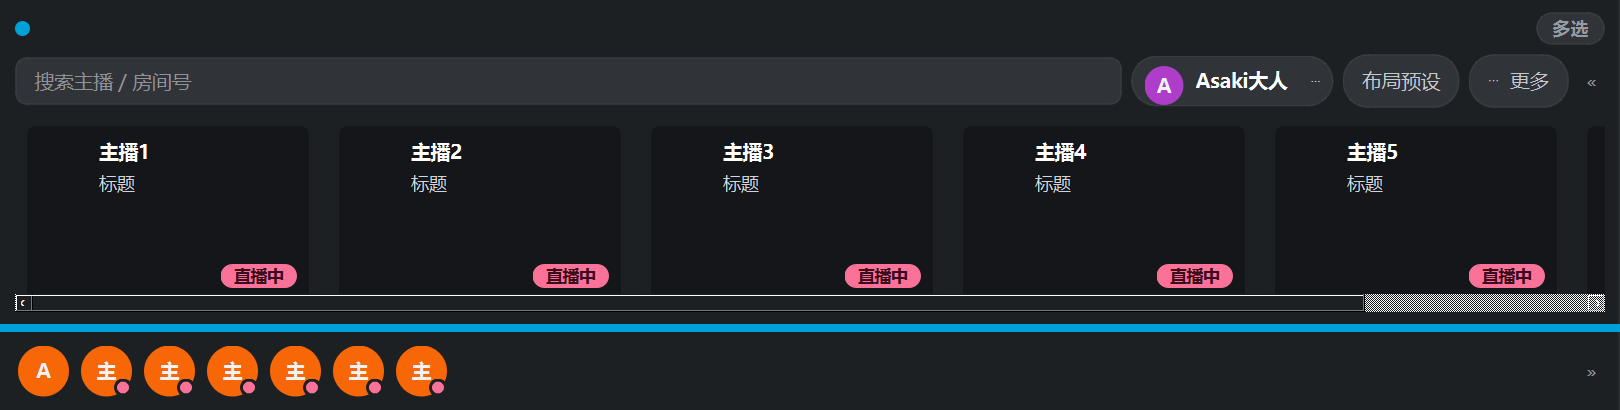
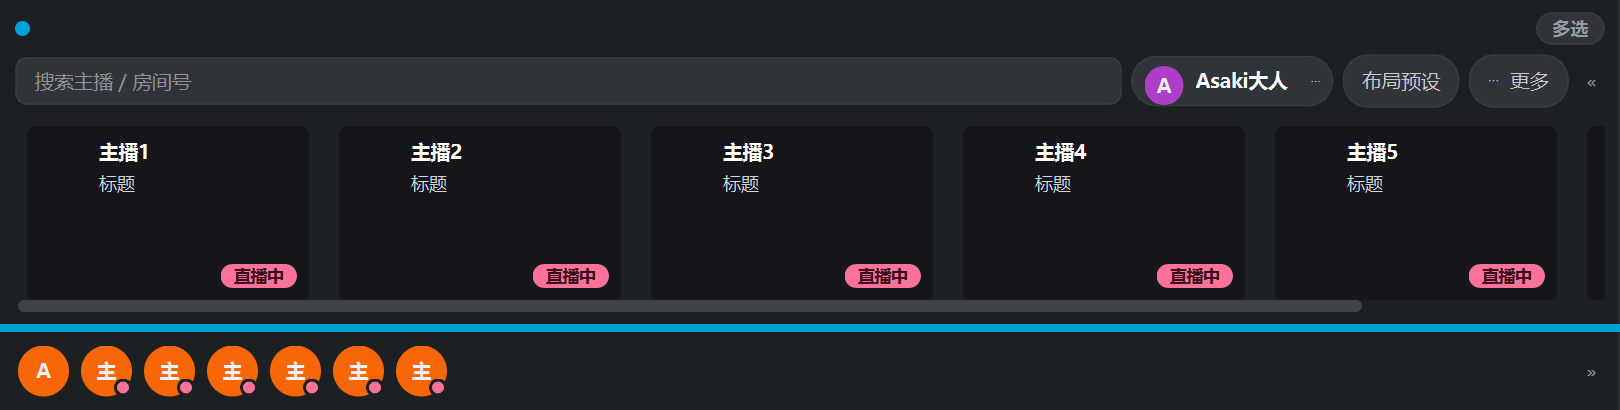
fix(portrait): 关注栏的横向滚动条改用主题样式
竖屏顶部横栏的横向卡片条原来掉回系统原生滚动条（灰底 + 两端箭头、12px 粗），
和横屏左栏那条竖向滚动条明显不是一套。照竖向条的写法补上横向规则，不新造样式：
同粗 8px、同色滑块、同样去掉两端箭头。

- ddm/theme.py：新增 QScrollBar:horizontal / ::handle / ::handle:hover /
  ::add-line/::sub-line/::add-page/::sub-page（数值与竖向一一对应）
- 顺带把被滚动条吃掉的高度还给卡片：视口 118 → 122px
- dev/selfcheck_portrait.py 第 12 组加断言：两轴规则都在、滑块同一种颜色（各一处）、
  渲染出来的粗细是主题写的 8px
- 形态截图更新：docs/portrait-bar.png（dev/preview_bar.py 生成）

Changed region(s): [[0.0, 0.7024, 1.0, 0.761]]

diff --git a/dev/selfcheck_portrait.py b/dev/selfcheck_portrait.py
@@ -361,6 +361,20 @@ def part_strip_interaction(app) -> None:
     assert sidebar.height() < 300, f"展开后横栏要比 362px 那版矮，实际 {sidebar.height()}"
     # 竖向滚轮要能横向滚（竖屏没有横向滚轮的鼠标）
     assert sidebar.scroll.horizontal_only, "竖屏列表要靠竖向滚轮横向滚"
+    # 横向滚动条要和横屏那条竖向滚动条同一套风格：主题里两轴都要有规则、
+    # 滑块同色、两端不带箭头的原生按钮；渲染出来的粗细也得是主题写的 8px
+    # （掉回系统原生是 12px，还带左右箭头）
+    qss = theme.qss()
+    hbar = sidebar.scroll.horizontalScrollBar()
+    print(f"  横向滚动条 {hbar.width()}x{hbar.height()}（原生 12px、带箭头）；"
+          f"主题里 handle 同色出现 {qss.count('rgba(131, 131, 145, 0.35)')} 次")
+    for rule in ("QScrollBar:horizontal", "QScrollBar::handle:horizontal",
+                 "QScrollBar::add-line:horizontal", "QScrollBar::sub-line:horizontal",
+                 "QScrollBar::add-page:horizontal", "QScrollBar::sub-page:horizontal"):
+        assert rule in qss, f"主题里缺 {rule}，横向条会掉回系统原生样式"
+    assert qss.count("rgba(131, 131, 145, 0.35)") == 2, \
+        "横向和竖向滚动条的滑块要用同一种颜色（各一处）"
+    assert hbar.height() <= 10, f"横向滚动条没走主题样式，实际 {hbar.height()}px"
 
     print("\n=== 12b. 横栏右侧那一块：账号头像 + 布局预设 + ⋯ 挤在同一行 ===")
     account = sidebar.account_row

diff --git a/ddm/theme.py b/ddm/theme.py
@@ -839,4 +839,25 @@ QScrollBar::add-page:vertical, QScrollBar::sub-page:vertical {{
     background: none;
     height: 0;
 }}
+/* ---------- 滚动条：横向 ----------
+   竖屏顶部横栏的横向卡片条靠它滚。样式和上面的竖向条一一对应（同一组颜色、
+   同粗、同样去掉两端箭头），否则会掉回系统原生那条灰底带箭头的滚动条。 */
+QScrollBar:horizontal {{
+    background: transparent;
+    height: 8px;
+    margin: 0 2px;
+}}
+QScrollBar::handle:horizontal {{
+    background: rgba(131, 131, 145, 0.35);
+    border-radius: 4px;
+    min-width: 32px;
+}}
+QScrollBar::handle:horizontal:hover {{
+    background: rgba(131, 131, 145, 0.55);
+}}
+QScrollBar::add-line:horizontal, QScrollBar::sub-line:horizontal,
+QScrollBar::add-page:horizontal, QScrollBar::sub-page:horizontal {{
+    background: none;
+    width: 0;
+}}
 """
